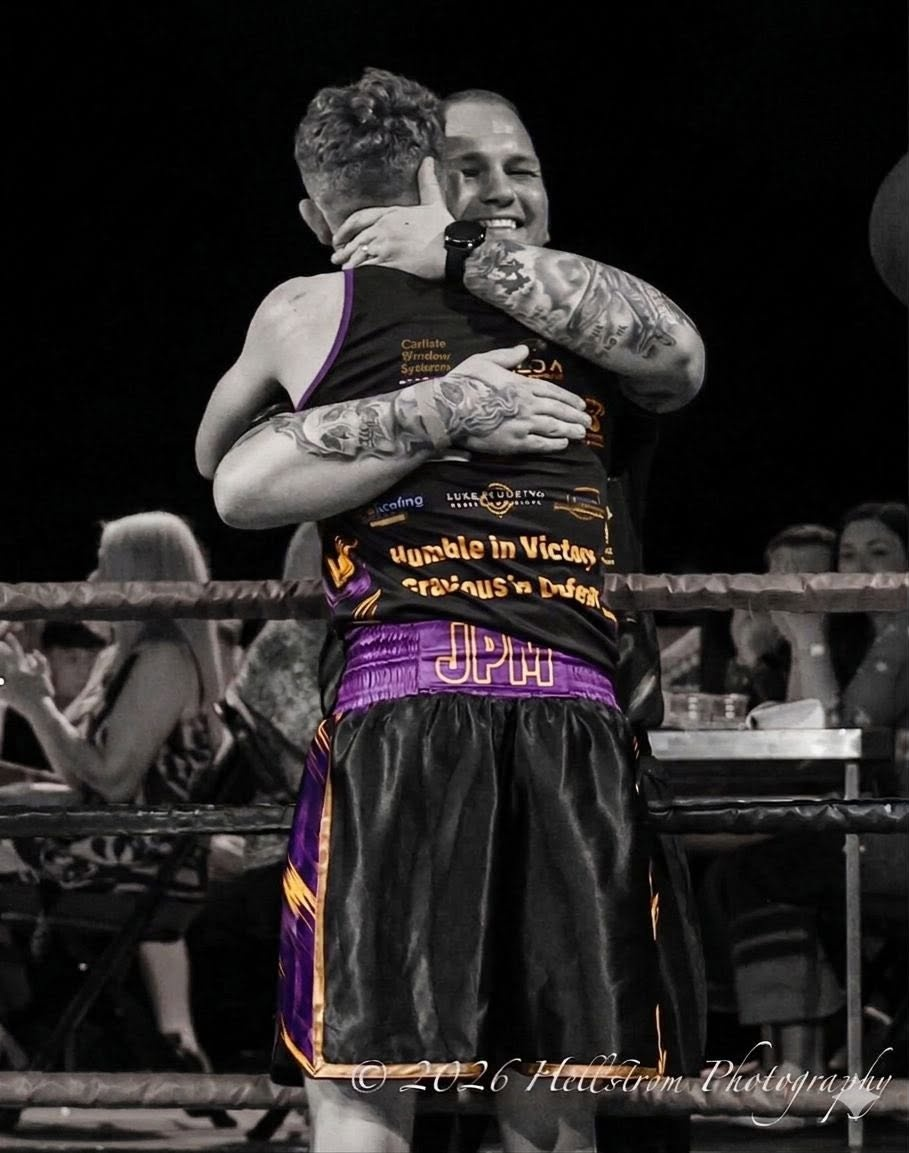
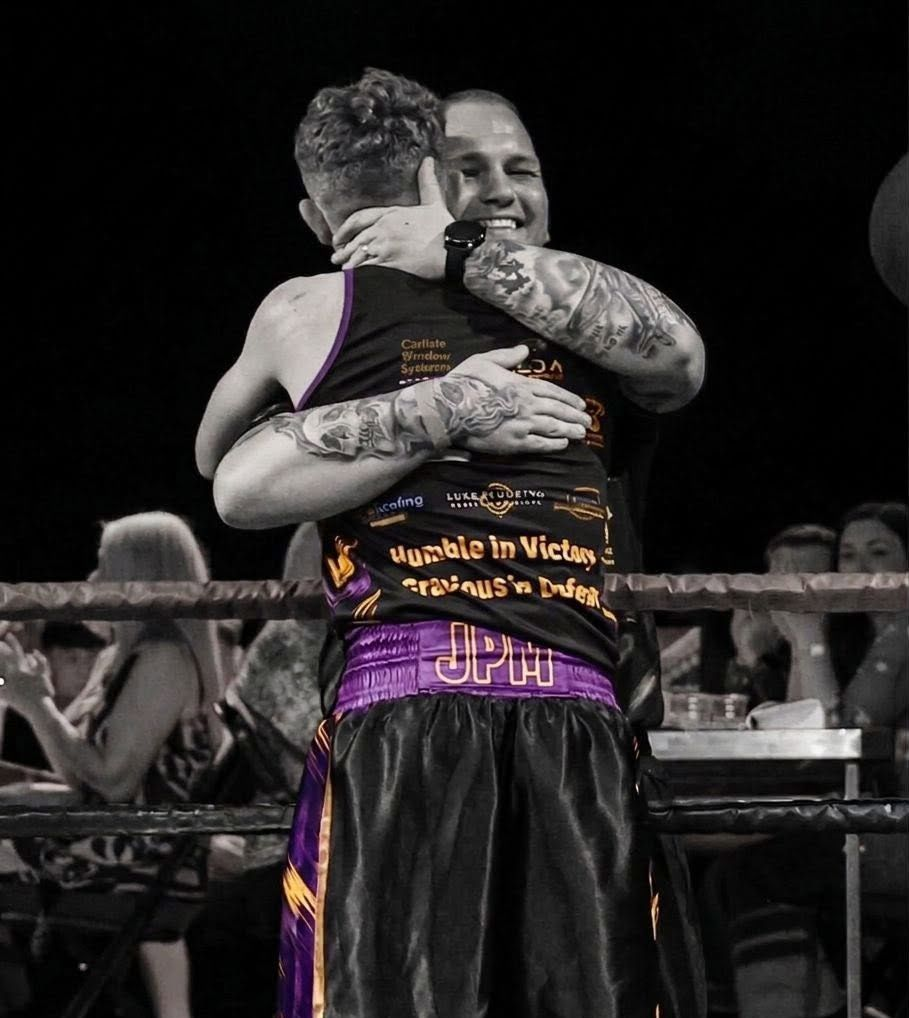
fix: use full wheelchair photo in gallery; crop watermark from hugging photo
- Gallery now imports disability shirt presentation.jpg (full image with both players visible) instead of the pre-cropped 2.jpg
- Cropped 135px from bottom of colour kit.jpg to remove Hellstrom Photography watermark

diff --git a/src/pages/Landing.jsx b/src/pages/Landing.jsx
@@ -20,7 +20,7 @@ import galleryBoxingGear from '../1.jpg';
 import galleryTeam from '../team photo.jpg';
 import galleryColour from '../colour kit.jpg';
 import galleryLioness from '../lioness.jpg';
-import galleryNew2 from '../2.jpg';
+import galleryNew2 from '../disability shirt presentation.jpg';
 import galleryNew3 from '../3.png';
 import galleryNew4 from '../4.jpg';
 
